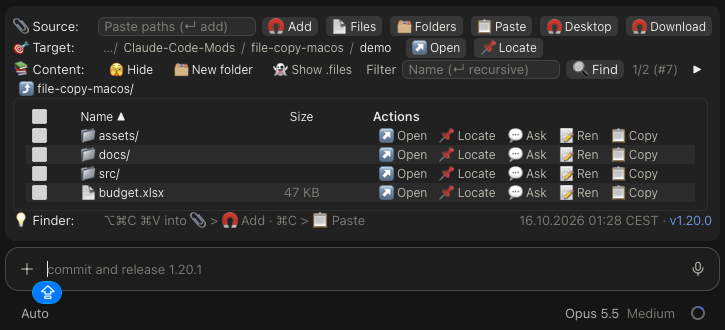
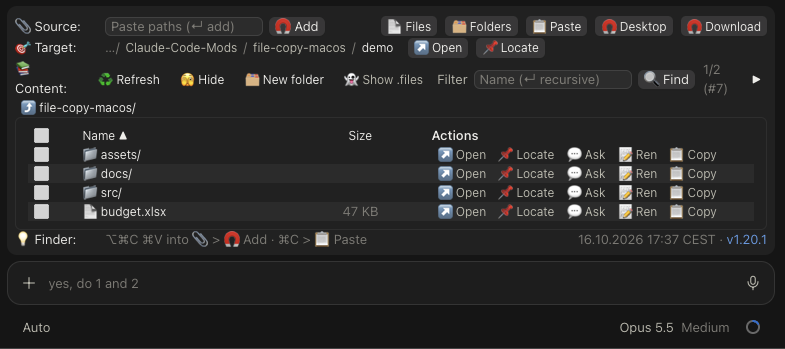
Add ♻ Refresh; new screenshots; screenshots at 80×24
- ♻ Refresh, before Show/Hide, reads the list again (names and sizes);
  during a search it runs the search again; a closed list opens. In a
  narrow terminal it shows the icon only, and the filter field there is
  24 cells, so the Content row still fits 80 columns.
- New desktop and terminal screenshots with ♻ Refresh.
- The screenshot steps use the standard terminal size, 80×24.

diff --git a/tests/file-copy-macos.test.tsx b/tests/file-copy-macos.test.tsx
@@ -1734,6 +1734,7 @@ test('a standard 80×24 terminal gets short labels, so each row fits', async ($,
 
   const source = ['pick', 'pick-folder', 'paste-files', 'latest-desktop', 'latest-download']
   expect(await Promise.all(source.map(key => labelOf(ui, key)))).toEqual(['📄', '🗂', '📋', '🧲🖥', '🧲⬇'])
+  expect(await labelOf(ui, 'refresh')).toBe('♻')
   expect(await labelOf(ui, 'list')).toBe('🫣')
   expect(await labelOf(ui, 'new-folder')).toBe('🗂 New')
   expect(await labelOf(ui, 'dotfiles')).toBe('👻 .files')
@@ -1747,10 +1748,12 @@ test('a standard 80×24 terminal gets short labels, so each row fits', async ($,
   const sourceRow = 2 + 1 + 20 + buttons.reduce((sum, w) => sum + w + 1, 0)
   expect(sourceRow).toBeLessThanOrEqual(75)
 
-  // Content row: the icon label, Hide, New folder, .files, the filter box
-  // (26), Clear and the page control "◀ 1/2 (#7) ▶".
-  const plain = await Promise.all(['list', 'new-folder', 'dotfiles'].map(async key => cells(await labelOf(ui, key))))
-  const contentRow = 2 + 1 + plain.reduce((sum, w) => sum + w + 1, 0) + 26 + 1 + 8 + 1 + cells('◀ 1/2 (#7) ▶')
+  // Content row: the icon label, Refresh, Hide, New folder, .files, the
+  // filter box (24), Clear and the page control "◀ 1/2 (#7) ▶".
+  const plain = await Promise.all(
+    ['refresh', 'list', 'new-folder', 'dotfiles'].map(async key => cells(await labelOf(ui, key))),
+  )
+  const contentRow = 2 + 1 + plain.reduce((sum, w) => sum + w + 1, 0) + 24 + 1 + 8 + 1 + cells('◀ 1/2 (#7) ▶')
   expect(contentRow).toBeLessThanOrEqual(75)
   // The page holds 4 items in 12 rows.
   expect(await ui.find({ type: 'Text', text: '1/2 (#7)' })).toBeDefined()
@@ -1768,4 +1771,46 @@ test('a standard 80×24 terminal gets short labels, so each row fits', async ($,
   expect(await labelOf(wide, 'list')).toBe('🫣 Hide')
   expect(await wide.find({ type: 'Text', text: '📚 Content:' })).toBeDefined()
   await wide.unmount()
+})
+
+test('♻ Refresh reads the list again, runs a search again, and opens a closed list', async ($, on) => {
+  let names = ['a.txt']
+  const runs: string[] = []
+
+  on('session.root', () => ({ value: '/proj' }))
+  on('process.run', ($, e) => {
+    if (e.argv.includes('rev-parse')) {
+      return { value: ran('true\n') }
+    }
+
+    if (e.argv.includes('ls-files')) {
+      runs.push('search')
+      return { value: ran(names.map(n => `docs/${n}\0`).join('')) }
+    }
+
+    return { value: ran('') }
+  })
+  fakeFs(on, dir => (dir === '/proj' ? names : dir === '/proj/docs' ? names : undefined))
+
+  const ui = await $.ui.mount({ plugin: 'file-copy-macos', surface: 'desktop', ...BAND })
+  expect((await ui.find({ key: 'refresh' }))?.props.label).toBe('♻ Refresh')
+
+  // A closed list opens.
+  await ui.press({ key: 'refresh' })
+  expect(await ui.find({ key: 'file:a.txt' })).toBeDefined()
+
+  // A file made outside the bar shows after Refresh.
+  names = ['a.txt', 'b.txt']
+  expect(await ui.find({ key: 'file:b.txt' })).toBeUndefined()
+  await ui.press({ key: 'refresh' })
+  expect(await ui.find({ key: 'file:b.txt' })).toBeDefined()
+
+  // During a search, Refresh runs it again.
+  await ui.input({ key: 'filter-0', text: '.txt' })
+  expect(runs.length).toBe(1)
+  names = ['a.txt', 'b.txt', 'c.txt']
+  await ui.press({ key: 'refresh' })
+  expect(runs.length).toBe(2)
+  expect(await ui.find({ key: 'file:docs/c.txt' })).toBeDefined()
+  await ui.unmount()
 })

diff --git a/hooks/register.tsx b/hooks/register.tsx
@@ -887,6 +887,23 @@ const runSearch = async ($: EngineInterface, text: string) => {
   }
 }
 
+// ♻ Refresh: reads the list again (names and sizes), for changes made
+// outside the bar; during a search it runs the search again. A closed list
+// opens.
+const refreshList = async ($: EngineInterface) => {
+  if (!(await read($, isListOpen))) {
+    await toggleList($)
+    return
+  }
+
+  if ((await read($, searchHits)) !== null) {
+    await runSearch($, await read($, filter))
+    return
+  }
+
+  await loadEntries($)
+}
+
 const toggleSelected = async ($: EngineInterface, name: string) => {
   await update($, isConfirming, () => false)
   await update($, selected, list =>
@@ -1437,6 +1454,12 @@ export const register: Register = (on, options) => {
             <Text>{label('📚', 'Content')}</Text>
           </Box>
           <Button
+            key="refresh"
+            label={narrow ? '♻' : '♻ Refresh'}
+            plain
+            onPress={() => refreshList($)}
+          />
+          <Button
             key="list"
             label={narrow ? (listOpen ? '🫣' : '👁') : listOpen ? '🫣 Hide' : '👁 Show'}
             plain
@@ -1459,7 +1482,7 @@ export const register: Register = (on, options) => {
           />
           {/* The terminal draws the field as wide as its box; the desktop at its
               own width, so a fixed box there would push Clear away. */}
-          <Box width={lines ? (narrow ? 26 : 38) : undefined}>
+          <Box width={lines ? (narrow ? 24 : 38) : undefined}>
             <Input
               key={`filter-${await read($, filterId)}`}
               label="Filter"

diff --git a/README.md b/README.md
@@ -88,7 +88,7 @@ Listing folders, file sizes, name checks, 🧲 Desktop, 🧲 Download and the se
 
 ## What it does
 
-The rows of the bar are 📎 Source, 🎯 Target, 📚 Content and 💡 Finder. In a terminal narrower than 100 columns (the standard size is 80×24), the rows and the 📎 Source and 📚 Content buttons show only their icons, to leave room for the fields: 📄 Files, 🗂 Folders, 📋 Paste, 🧲🖥 Desktop, 🧲⬇ Download, 🫣 Hide, 🗂 New folder, 👻 .files. The 💡 tip then reads `Drag/⌥⌘C ⌘V > 📎 🧲 Add · ⌘C > 📋`.
+The rows of the bar are 📎 Source, 🎯 Target, 📚 Content and 💡 Finder. In a terminal narrower than 100 columns (the standard size is 80×24), the rows and the 📎 Source and 📚 Content buttons show only their icons, to leave room for the fields: 📄 Files, 🗂 Folders, 📋 Paste, 🧲🖥 Desktop, 🧲⬇ Download, ♻ Refresh, 🫣 Hide, 🗂 New folder, 👻 .files. The 💡 tip then reads `Drag/⌥⌘C ⌘V > 📎 🧲 Add · ⌘C > 📋`.
 
 Point at 📋 Paste, 🧲 Desktop, 🧲 Download or the 💡 Finder tip to see what it does. The other buttons say it in their label. In the terminal, tips need a terminal that reports mouse movement, which fullscreen mode usually does.
 
@@ -117,6 +117,7 @@ If a name already exists in the target, the mod asks first:
 
 - **🎯 Target** is the project root at the start. Each folder of its path is a button: a click makes that folder the target. The path starts at the project folder (`…/my-project/docs`); point at it to see the full path. If it is still too long, the folders in the middle become "…". **↗ Open** opens the target folder in Finder. **📌 Locate** shows it in its parent folder, selected.
 - **📚 Content** shows when a session starts; **🫣 Hide** closes it and **👁 Show** opens it again.
+- **♻ Refresh** reads the list again, for changes made outside the bar (for example in Finder). During a search it runs the search again.
 - **📚 Content** is a framed table with the columns tick box, Name, Size and Actions. Every other row is striped in a faint gray; on the desktop the row under the pointer also lights up. Long names are cut with "…". The terminal also draws lines between the columns and under the header.
 - Click a 📁 folder name to open it. It becomes the target. ⤴ goes up one level. You cannot leave the project.
 - Click a 📄 file name to open it with its default macOS app.
@@ -249,7 +250,7 @@ The screenshots at the top of this README show a sample project, so they contain
    ```
 
 2. Desktop app: open the `demo` folder of your clone as the folder of a new Code tab session. Make the window about 900 pixels wide.
-3. Terminal: run `cd demo && claude` in the clone, in a window of about 100 to 120 columns and at least 35 rows.
+3. Terminal: run `cd demo && claude` in the clone, in a window of the standard size, 80 columns and 24 rows (in Terminal: Shell > New Window opens one).
 4. In each, take a window screenshot: press Cmd+Shift+4, then Space, then click the window.
 5. Save them as `docs/images/desktop.png` and `docs/images/terminal.png`, replacing the old ones, and commit.
 
